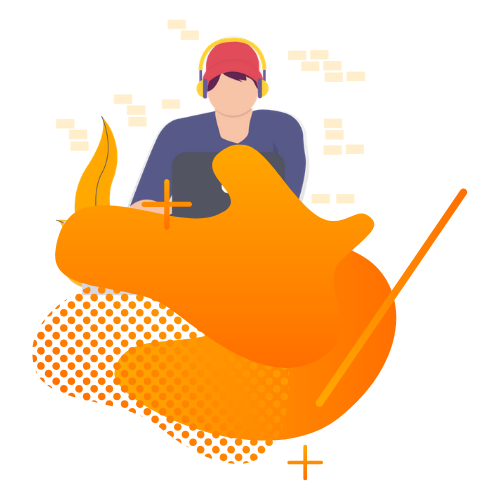
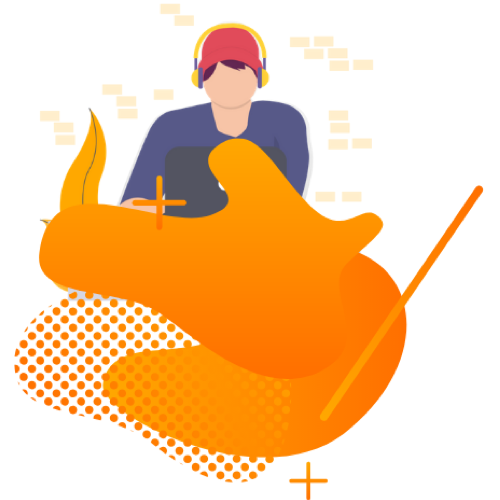
Fixed responsivity

diff --git a/style.css b/style.css
@@ -1,5 +1,5 @@
 body {
-	font-size: 16px;
+	font-size: 18px;
 	font-family: "Montserrat";
 }
 
@@ -9,6 +9,7 @@ body {
 }
 
 .landing {
+	margin-top:2.5em;
 	display: grid;
 	align-items: center;
 	grid-template-columns: 70% 30%;
@@ -23,29 +24,46 @@ body {
 	font-weight: 200;
 }
 
+.landing-illustration img{
+	display: block;
+	margin: auto;
+	height: 500px;
+	width: 500px;
+}
+
 .btn-theme {
-    background-image: linear-gradient(-45deg, #ff6f00, #ffa800);
+	background-image: linear-gradient(-45deg, #ff6f00, #ffa800);
 	padding: 0.7em;
 	border: none;
 }
 
 .navbar button {
-    color: #ff6f00;
-    background:none;
-    border:none;
-    transition: 0.5s all;
+	color: #ff6f00;
+	background: none;
+	border: none;
+	transition: 0.5s all;
 }
 
 .navbar button:hover {
-    color: #fff;
-    background: #ff6f00;
-    border:none;
+	color: #fff;
+	background: #ff6f00;
+	border: none;
 }
 
 @media only screen and (max-width: 768px) {
+	body {
+		font-size: 14px;
+	}
+	.landing-illustration img {
+		height: 300px;
+		width: 300px;
+	}
 	.landing {
 		grid-template-columns: 100%;
-		grid-template-rows: 50% 50%;
+		grid-template-rows: 70% 40%;
 		align-items: center;
+	}
+	.landing-text {
+		text-align: center;
 	}
 }

diff --git a/index.html b/index.html
@@ -26,7 +26,7 @@
 			<div class="container">
 				<nav class="navbar navbar-light justify-content-between">
 					<a class="navbar-brand"
-						><img src="img/logo.png" width="75" height="75"
+						><img src="img/logo.png" width="60" height="60"
 					/></a>
 					<button
 						type="button"
@@ -81,7 +81,7 @@
 						</button>
 					</div>
 					<div class="modal-body">
-						Coming soon :)
+						Coming soon :) <br /><br />
 						<button
 							type="button"
 							class="btn btn-info btn-theme"
@@ -90,7 +90,10 @@
 							Close
 						</button>
 					</div>
-					<div class="modal-footer">Made with &nbsp;<span style="color:red">&hearts;</span>&nbsp; by Bucharest School of AI</div>
+					<div class="modal-footer">
+						Made with &nbsp;<span style="color:red">&hearts;</span>&nbsp; by
+						Bucharest School of AI
+					</div>
 				</div>
 			</div>
 		</div>
